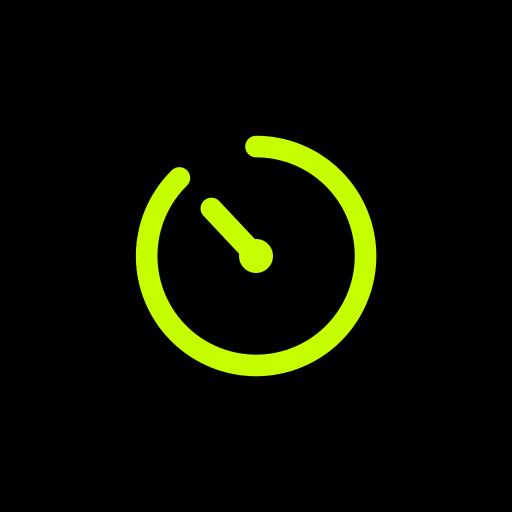
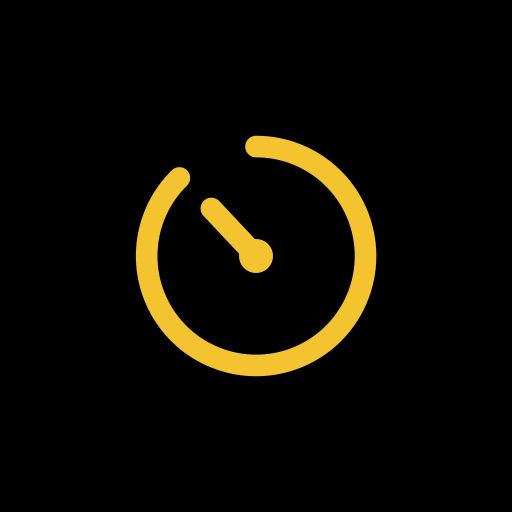
Rebrand: Athletenhalle Gym Timer, warmes Gelb statt Volt, ruhigeres Blau
- Name, Manifest, Icons, Teilen-Texte auf Athletenhalle
- Arbeit #F4C430, Pause #5B8FD9, Palette insgesamt weniger grell
- Logo-Slot: brand/logo.png wird in Kopfzeile und Abschluss-Screen gezeigt,
  Fallback Schriftzug ATHLETENHALLE

Claude-Session: https://claude.ai/code/session_01QQpJWFdK9GJCfiZEdNiVKy

Changed region(s): [[0.25, 0.25, 0.75, 0.75], [0.375, 0.375, 0.5312, 0.5312]]

diff --git a/styles.css b/styles.css
@@ -1,5 +1,5 @@
 /* ============================================================
-   ZEITSCHALTUHR — athletic dark, neon volt
+   ATHLETENHALLE GYM TIMER — athletic dark, warm yellow
    ============================================================ */
 @font-face { font-family: 'Barlow Condensed'; font-style: normal; font-weight: 600; font-display: swap; src: url(/fonts/barlow-condensed-latin-600-normal.woff2) format('woff2'); }
 @font-face { font-family: 'Barlow Condensed'; font-style: italic; font-weight: 700; font-display: swap; src: url(/fonts/barlow-condensed-latin-700-italic.woff2) format('woff2'); }
@@ -13,7 +13,7 @@
   --line: #ffffff10;
   --text: #f4f4f5;
   --dim: #8a8a93;
-  --accent: #c6ff00;
+  --accent: #f4c430;
   --accent-ink: #0a0a0a;
   --red: #ff4d3d;
   --radius: 24px;
@@ -55,7 +55,10 @@ svg { display: block; }
   background: linear-gradient(var(--bg) 65%, #0000);
 }
 .topbar h1 { margin: 0; font: italic 800 26px/1 var(--display); text-transform: uppercase; letter-spacing: .01em; text-align: center; }
-.wordmark { font: italic 900 17px/1 var(--display); letter-spacing: .22em; color: #fff; text-align: center; }
+.wordmark { display: flex; align-items: center; justify-content: center; font: italic 900 17px/1 var(--display); letter-spacing: .2em; color: #fff; text-align: center; }
+.brand-logo { height: 34px; width: auto; max-width: 180px; object-fit: contain; }
+.brand-logo + span { display: none; }
+.done-logo { height: 28px; margin: 0 auto 26px; opacity: .8; }
 .topbar > :last-child { justify-self: end; }
 .topbar-right { display: flex; gap: 10px; justify-self: end; }
 .round-btn {
@@ -86,7 +89,7 @@ svg { display: block; }
   display: flex; align-items: center; gap: 14px; width: 100%; margin-bottom: 12px;
   padding: 18px 18px 18px 22px; border-radius: var(--radius); text-align: left;
   background: var(--accent); color: var(--accent-ink);
-  box-shadow: 0 14px 40px #c6ff0026;
+  box-shadow: 0 14px 40px #f4c43024;
   transition: transform .12s;
 }
 .quick:active { transform: scale(.98); }
@@ -106,7 +109,7 @@ svg { display: block; }
   background: var(--card); border-radius: var(--radius); box-shadow: inset 0 0 0 1px var(--line);
   transition: transform .15s, box-shadow .15s;
 }
-.mode-card::after { content: ''; position: absolute; inset: 0; z-index: -1; background: radial-gradient(120% 90% at 100% 0%, #c6ff0014, transparent 60%); opacity: 0; transition: opacity .2s; }
+.mode-card::after { content: ''; position: absolute; inset: 0; z-index: -1; background: radial-gradient(120% 90% at 100% 0%, #f4c43014, transparent 60%); opacity: 0; transition: opacity .2s; }
 .mode-card:active { transform: scale(.97); box-shadow: inset 0 0 0 1.5px var(--accent); }
 .mode-card:active::after { opacity: 1; }
 .mode-card.wide { grid-column: span 2; min-height: 120px; }
@@ -139,7 +142,7 @@ svg { display: block; }
 .empty { color: var(--dim); font-size: 15px; line-height: 1.45; margin: 0 4px; }
 .empty svg { display: inline; width: 16px; height: 16px; vertical-align: -3px; color: var(--accent); }
 .wake-note { text-align: center; color: var(--dim); font-size: 12px; font-weight: 600; letter-spacing: .06em; text-transform: uppercase; margin-top: 30px; }
-.dot { display: inline-block; width: 7px; height: 7px; border-radius: 50%; background: #ffb020; margin-right: 6px; vertical-align: 1px; }
+.dot { display: inline-block; width: 7px; height: 7px; border-radius: 50%; background: #e8893a; margin-right: 6px; vertical-align: 1px; }
 .dot.on { background: var(--accent); box-shadow: 0 0 10px var(--accent); }
 
 .icon-btn { width: 36px; height: 36px; display: grid; place-items: center; border-radius: 10px; color: var(--accent); flex: none; }
@@ -185,7 +188,7 @@ svg { display: block; }
   width: 100%; max-width: 688px; margin: 0 auto; height: 66px; border-radius: 22px;
   background: var(--accent); color: var(--accent-ink);
   font: italic 900 32px/1 var(--display); text-transform: uppercase; letter-spacing: .04em;
-  box-shadow: 0 12px 40px #c6ff0033, inset 0 -3px 0 #0000001f;
+  box-shadow: 0 12px 40px #f4c4302e, inset 0 -3px 0 #0000001f;
   transition: transform .12s;
 }
 .start-btn svg { width: 22px; height: 22px; }
@@ -206,8 +209,8 @@ svg { display: block; }
 .color-dot { width: 8px; height: 44px; border-radius: 4px; flex: none; }
 .step-main { flex: 1; min-width: 0; display: flex; flex-direction: column; align-items: flex-start; }
 .step-name { font-size: 16px; font-weight: 700; padding: 2px 0; width: 100%; }
-.kind-pill { font-size: 10px; font-weight: 800; text-transform: uppercase; letter-spacing: .1em; padding: 3px 8px; border-radius: 6px; margin-top: 3px; background: #c6ff001f; color: var(--accent); }
-.kind-pill.rest { background: #2ec5ff1f; color: #2ec5ff; }
+.kind-pill { font-size: 10px; font-weight: 800; text-transform: uppercase; letter-spacing: .1em; padding: 3px 8px; border-radius: 6px; margin-top: 3px; background: #f4c4301f; color: var(--accent); }
+.kind-pill.rest { background: #5b8fd924; color: #7aa8e6; }
 .step-tools { display: flex; flex-direction: column; }
 .block-add { display: flex; gap: 8px; padding: 6px 16px 0; }
 .ghost-btn { display: inline-flex; align-items: center; justify-content: center; gap: 6px; padding: 11px 15px; border-radius: 14px; background: var(--card-2); color: var(--text); font-weight: 700; font-size: 14px; }
@@ -254,7 +257,7 @@ svg { display: block; }
 .wheel-item { height: 44px; line-height: 44px; text-align: center; font: italic 800 30px/44px var(--display); font-variant-numeric: tabular-nums; scroll-snap-align: center; color: #55555c; transition: color .1s; }
 .wheel-item.sel { color: var(--accent); }
 .wheel-unit { z-index: 1; color: var(--dim); font-size: 13px; font-weight: 700; text-transform: uppercase; letter-spacing: .08em; width: 40px; }
-.wheel-highlight { position: absolute; left: 0; right: 0; top: 88px; height: 44px; border-radius: 14px; background: #ffffff0d; box-shadow: inset 0 0 0 1px #c6ff0033; pointer-events: none; }
+.wheel-highlight { position: absolute; left: 0; right: 0; top: 88px; height: 44px; border-radius: 14px; background: #ffffff0d; box-shadow: inset 0 0 0 1px #f4c43033; pointer-events: none; }
 
 /* toast */
 #toast { position: fixed; left: 50%; bottom: calc(var(--safe-b) + 100px); transform: translate(-50%, 20px); z-index: 60; background: var(--accent); color: var(--accent-ink); padding: 12px 20px; border-radius: 999px; font: italic 800 19px/1 var(--display); text-transform: uppercase; letter-spacing: .03em; opacity: 0; pointer-events: none; transition: opacity .2s, transform .2s; white-space: nowrap; box-shadow: 0 10px 30px #0008; }
@@ -358,7 +361,7 @@ svg { display: block; }
 .finished .done { display: flex; animation: fade .4s; }
 @keyframes fade { from { opacity: 0; transform: scale(1.04); } }
 .done-card { width: 100%; max-width: 440px; text-align: center; }
-.done-emoji { width: 96px; height: 96px; margin: 0 auto; border-radius: 50%; background: var(--accent); color: var(--accent-ink); display: grid; place-items: center; box-shadow: 0 0 60px #c6ff0066; animation: pop .55s cubic-bezier(.2, 1.6, .4, 1); }
+.done-emoji { width: 96px; height: 96px; margin: 0 auto; border-radius: 50%; background: var(--accent); color: var(--accent-ink); display: grid; place-items: center; box-shadow: 0 0 60px #f4c43055; animation: pop .55s cubic-bezier(.2, 1.6, .4, 1); }
 .done-emoji svg { width: 50px; height: 50px; stroke-width: 3; }
 @keyframes pop { from { transform: scale(.2) rotate(-20deg); } }
 .done h2 { margin: 22px 0 4px; font: italic 900 clamp(64px, 20vw, 110px)/.85 var(--display); text-transform: uppercase; }

diff --git a/js/modes.js b/js/modes.js
@@ -2,15 +2,15 @@
 // A segment: { kind, label, dur (ms, Infinity = open), up (display counts up), round, rounds, set, sets, color }
 
 export const KIND = {
-  prep: { label: 'Bereit', color: '#FFB020', speak: 'Bereit machen' },
-  work: { label: 'Arbeit', color: '#C6FF00', speak: 'Los' },
-  rest: { label: 'Pause', color: '#2EC5FF', speak: 'Pause' },
-  setrest: { label: 'Satzpause', color: '#A77BFF', speak: 'Satzpause' },
-  cool: { label: 'Cool-down', color: '#5EF2C8', speak: 'Cool down' },
-  up: { label: 'Go', color: '#C6FF00', speak: 'Los' },
+  prep: { label: 'Bereit', color: '#E8893A', speak: 'Bereit machen' },
+  work: { label: 'Arbeit', color: '#F4C430', speak: 'Los' },
+  rest: { label: 'Pause', color: '#5B8FD9', speak: 'Pause' },
+  setrest: { label: 'Satzpause', color: '#9A86E0', speak: 'Satzpause' },
+  cool: { label: 'Cool-down', color: '#5FB8A6', speak: 'Cool down' },
+  up: { label: 'Go', color: '#F4C430', speak: 'Los' },
 };
 
-export const STEP_COLORS = ['#C6FF00', '#FF5A36', '#FF3D8B', '#FFB020', '#A77BFF', '#5EF2C8', '#2EC5FF', '#FFFFFF'];
+export const STEP_COLORS = ['#F4C430', '#E8643A', '#E0578A', '#E8893A', '#9A86E0', '#5FB8A6', '#5B8FD9', '#EDEDED'];
 
 const t = (id, label, extra = {}) => ({ id, type: 'time', label, ...extra });
 const n = (id, label, extra = {}) => ({ id, type: 'count', label, min: 1, max: 99, ...extra });
@@ -80,10 +80,10 @@ export const MODES = {
           name: 'Zirkel',
           repeats: 3,
           steps: [
-            { name: 'Squats', dur: 40, kind: 'work', color: '#C6FF00' },
-            { name: 'Pause', dur: 20, kind: 'rest', color: '#2EC5FF' },
-            { name: 'Push-ups', dur: 40, kind: 'work', color: '#FF5A36' },
-            { name: 'Pause', dur: 20, kind: 'rest', color: '#2EC5FF' },
+            { name: 'Squats', dur: 40, kind: 'work', color: '#F4C430' },
+            { name: 'Pause', dur: 20, kind: 'rest', color: '#5B8FD9' },
+            { name: 'Push-ups', dur: 40, kind: 'work', color: '#E8643A' },
+            { name: 'Pause', dur: 20, kind: 'rest', color: '#5B8FD9' },
           ],
         },
       ],

diff --git a/js/main.js b/js/main.js
@@ -141,7 +141,7 @@ function renderHome() {
   app.innerHTML = `
     <header class="topbar">
       <button class="round-btn" data-act="settings" aria-label="Einstellungen">${I.user}</button>
-      <span class="wordmark">ZEITSCHALTUHR</span>
+      <span class="wordmark"><img class="brand-logo" src="/brand/logo.png" alt="Athletenhalle" onerror="this.remove()"><span>ATHLETENHALLE</span></span>
       <button class="round-btn" data-act="share-app" aria-label="Teilen">${I.share}</button>
     </header>
     <main class="home">
@@ -595,7 +595,7 @@ const actions = {
     const h = history.all().find((x) => x.cfg && MODES[x.mode]);
     if (h) startRun(h.mode, { ...MODES[h.mode].defaults, ...h.cfg }, h.title);
   },
-  'share-app': () => shareLink(location.origin + '/', 'Zeitschaltuhr – Workout Timer'),
+  'share-app': () => shareLink(location.origin + '/', 'Athletenhalle Gym Timer'),
   'test-sound': () => {
     unlockAudio();
     cue.work();
@@ -657,7 +657,7 @@ const actions = {
   },
   'share-cfg': () => {
     const url = `${location.origin}/#/m/${editMode}?c=${encodeCfg(editCfg)}`;
-    shareLink(url, `${MODES[editMode].title} – Zeitschaltuhr`);
+    shareLink(url, `${MODES[editMode].title} – Athletenhalle Gym Timer`);
   },
   start: () => startRun(editMode, editCfg, MODES[editMode].title),
 
@@ -1066,7 +1066,7 @@ function onDone() {
   updateRun();
   const v = runView;
   v.root.classList.add('finished');
-  v.root.style.setProperty('--phase', '#C6FF00');
+  v.root.style.setProperty('--phase', '#F4C430');
   v.drain.style.transform = 'scaleY(0)';
   const extra =
     e.rounds > 0
@@ -1076,6 +1076,7 @@ function onDone() {
         : '';
   v.done.innerHTML = `
     <div class="done-card">
+      <img class="done-logo" src="/brand/logo.png" alt="" onerror="this.remove()">
       <div class="done-emoji">${I.check}</div>
       <h2>Geschafft<span>.</span></h2>
       <p class="done-sub">${esc(current.title)} · ${new Date().toLocaleDateString('de-CH', { weekday: 'long' })}</p>

diff --git a/index.html b/index.html
@@ -3,14 +3,14 @@
 <head>
   <meta charset="utf-8">
   <meta name="viewport" content="width=device-width, initial-scale=1, viewport-fit=cover, user-scalable=no">
-  <title>Zeitschaltuhr</title>
-  <meta name="description" content="Workout-Timer: Tabata, Runden, Stoppuhr, Intervalle, Countdown, AMRAP, For Time.">
+  <title>Athletenhalle Gym Timer</title>
+  <meta name="description" content="Athletenhalle Gym Timer: Tabata, Runden, Stoppuhr, Intervalle, Countdown, AMRAP, For Time.">
   <meta name="theme-color" content="#060607">
   <meta name="color-scheme" content="dark">
   <meta name="apple-mobile-web-app-capable" content="yes">
   <meta name="mobile-web-app-capable" content="yes">
   <meta name="apple-mobile-web-app-status-bar-style" content="black-translucent">
-  <meta name="apple-mobile-web-app-title" content="Timer">
+  <meta name="apple-mobile-web-app-title" content="Athletenhalle">
   <link rel="manifest" href="/manifest.webmanifest">
   <link rel="icon" href="/icons/icon.svg" type="image/svg+xml">
   <link rel="apple-touch-icon" href="/icons/apple-touch-icon.png">

diff --git a/sw.js b/sw.js
@@ -1,5 +1,5 @@
 // Offline support. Network-first so new deploys show up immediately; cache is the fallback.
-const CACHE = 'zeitschaltuhr-v3';
+const CACHE = 'athletenhalle-v4';
 const ASSETS = [
   '/',
   '/index.html',

diff --git a/README.md b/README.md
@@ -1,4 +1,8 @@
-# Zeitschaltuhr – Workout Timer
+# Athletenhalle Gym Timer
+
+Workout-Timer für die [Athletenhalle by Bro Performance](https://broperformance.li), Vaduz.
+
+**Logo:** `brand/logo.png` ablegen (transparenter Hintergrund, helle Version für dunklen Grund). Solange keine Datei da ist, zeigt die App den Schriftzug ATHLETENHALLE.
 
 Workout-Timer als Web-App (PWA) für Handy, Tablet und Desktop. Keine Abhängigkeiten, kein Build: reines HTML/CSS/JS, läuft direkt auf Vercel.
 
